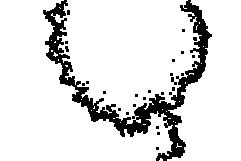
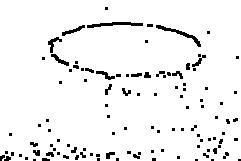
Added greedy smart initialization method

diff --git a/Project_3/src/utils/InitPop.java b/Project_3/src/utils/InitPop.java
@@ -32,7 +32,7 @@ public abstract class InitPop {
             customThreadPool.submit(() -> {
                 IntStream.range(0, populationSize).parallel().forEach(i -> {
                     // Add the individual to the concurrent collection
-                    pop.add(generateSmartIndividual(buffImg, populationLength));
+                    pop.add(generateSmartIndividualGreedy(buffImg, populationLength));
                     System.out.println("created individual");
                 });
             }).get(); // Waiting for all tasks to complete
@@ -45,7 +45,7 @@ public abstract class InitPop {
         return new ArrayList<>(pop);
     }
 
-    private static SolutionRepresentation generateSmartIndividual(BufferedImage buffImg, int populationLength) {
+    private static SolutionRepresentation generateSmartIndividualRandom(BufferedImage buffImg, int populationLength) {
         Image img = loadImage(buffImg);
         Pixel[][] pixels = img.getPixels();
         int width = img.getWidth();
@@ -131,6 +131,112 @@ public abstract class InitPop {
                     currentPixel = neighbour;
                     // increase the size of the "snake/segment"
                     j++;
+                }
+            }
+        }
+        // actually add the new pixels to the solution
+        for (int i = 0; i < height; i++) {
+            for (int j = 0; j < width; j++) {
+                Pixel p = pixels[i][j];
+                solution.add(p);
+            }
+        }
+
+        return new SolutionRepresentation(solution, pixels[0].length);
+
+    }
+
+    private static SolutionRepresentation generateSmartIndividualGreedy(BufferedImage buffImg, int populationLength) {
+        //todo Somehow prevent it from creating alot of very small segments (or finding the right color diff at 222)
+        Image img = loadImage(buffImg);
+        Pixel[][] pixels = img.getPixels();
+        int width = img.getWidth();
+        int height = img.getHight();
+        // track a list of options for pixels
+        HashSet<Pixel> pixelOptions = new HashSet<Pixel>();
+        ArrayList<Pixel> trackedPixelSolution = new ArrayList<>();
+        for (int i = 0; i < height; i++) {
+            for (int j = 0; j < width; j++) {
+                Pixel p = pixels[i][j];
+                pixelOptions.add(p);
+                trackedPixelSolution.add(p);
+            }
+        }
+
+        ArrayList<Pixel> solution = new ArrayList<Pixel>();
+        Set<Integer> pixelKeysVisited = new HashSet<Integer>();
+
+        while (!pixelOptions.isEmpty()) {
+            System.out.println(pixelOptions.size());
+            // thread safe random
+            Random rnd = threadSafeRandom.get();
+            // select a random pixel to start a region
+            List<Pixel> pixelOptionsTemp = new ArrayList<Pixel>(pixelOptions);
+            Pixel currentPixel = pixelOptionsTemp.get(rnd.nextInt(pixelOptions.size()));
+            pixelOptions.remove(currentPixel);
+            // set it to connect to itsself (working backwards)
+            currentPixel.setConnection(PossibleConnections.NONE);
+            // search for a neighbour
+            boolean search = true;
+            // keep track of neighbours
+            ArrayList<Object[]> possibleNeighbours = new ArrayList<>();
+            // keep track of the visited each loop/segment/snake
+            Set<Integer> visitedThisLoop = new HashSet<>();
+            while (search) {
+                // get and filter new neighbours
+                List<Integer> neighbourKeys = currentPixel.getNeighbors();
+                ArrayList<Object[]> neighbours = new ArrayList<Object[]>();
+                for (Integer key : neighbourKeys) {
+                    if (key != null) {
+                        Pixel nb = trackedPixelSolution.get(key);
+                        neighbours.add(new Object[]{nb,currentPixel, nb.getDistanceTo(currentPixel.getColor())});
+                    }
+                }
+                List<Object[]> newNeighbourOptions = neighbours.stream()
+                        // Filter out if the first Pixel is null
+                        .filter(n -> Objects.nonNull(n[0]))
+                        // Ensure the Pixel does not exist in possibleNeighbours
+                        .filter(n -> possibleNeighbours.stream()
+                                .noneMatch(p -> ((Pixel) p[0]).equals(n[0])))
+                        .filter(n -> !pixelKeysVisited.contains(((Pixel) n[0]).getKey()))
+                        .collect(Collectors.toList());
+                // add the new neighbours
+                possibleNeighbours.addAll((newNeighbourOptions));
+                // if no possibilities or "snake" length too long, stop the search and go to the
+                // next random pixel to start a new "snake"
+                if (possibleNeighbours.size() == 0) {
+                    search = false;
+                } else {
+                    // sort the neighbourOptions by [2] value
+                    Collections.sort(possibleNeighbours, new Comparator<Object[]>() {
+                        @Override
+                        public int compare(Object[] o1, Object[] o2) {
+                            Double value1 = (Double) o1[2];
+                            Double value2 = (Double) o2[2];
+                            return value1.compareTo(value2);
+                        }
+                    });
+                    //get the neighbour
+                    Object[] neighbourObject = possibleNeighbours.get(0);
+                    //stop if the best distance is too big
+                    if ((Double) neighbourObject[2] > 100){
+                        search = false;
+                    } else {
+                        Pixel neighbour = (Pixel) neighbourObject[0];
+                        //get the pixel it should be connected to
+                        Pixel toConnectToNeighbour = (Pixel) possibleNeighbours.get(0)[1];
+                        //get the direction number for toConnectToNeighbour
+                        int nr = neighbour.getNeighbors().indexOf(toConnectToNeighbour.getKey());
+                        // connect the neighbour to the current segment
+                        neighbour.setConnection(PossibleConnections.values()[nr]);
+                        // add neighbour to visited
+                        pixelKeysVisited.add(neighbour.getKey());
+                        //remove as an option
+                        possibleNeighbours.remove(neighbourObject);
+                        pixelOptions.remove(neighbour);
+                        // set current to neighbour
+                        currentPixel = neighbour;
+                    }
                 }
             }
         }

diff --git a/Project_3/src/MOOP.java b/Project_3/src/MOOP.java
@@ -30,7 +30,7 @@ public class MOOP {
         // img.getPixels()[0][0].getNeighbors());
 
         int generations = 5;
-        int populationSize = 10;
+        int populationSize = 1;
         int amountOfSeconds = 360;
         boolean useTime = false;
         double crossoverRate = 1;
